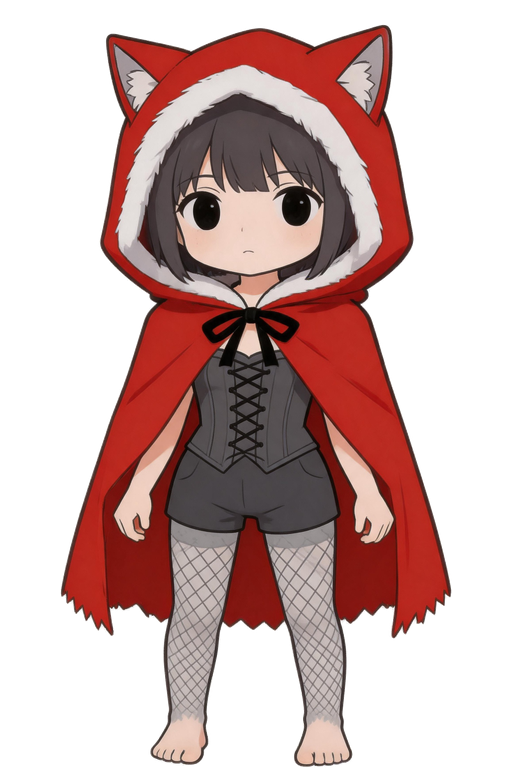
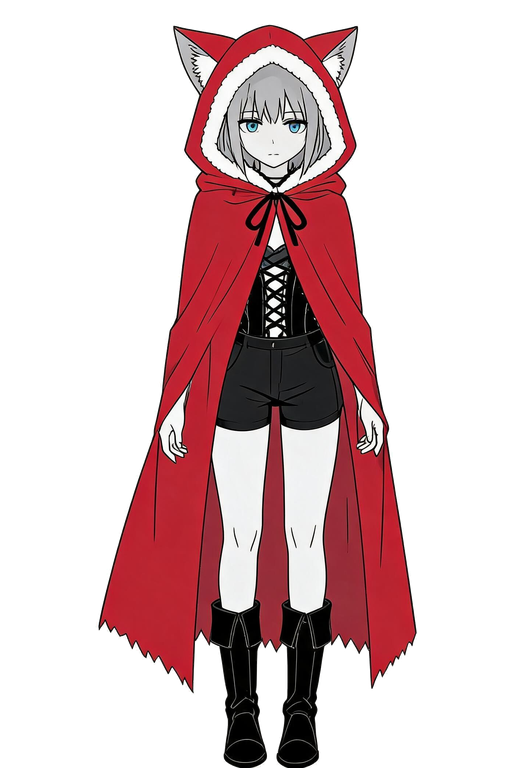
feat: 首张真立绘（蕾克）走通 seedream → prep_portrait → 色相检查 流程
- art/portrait/rek.png: 512x768 透明立绘，越界 0.20% PASS
- art/ref/sheet.png: 官方三面图作为出图参考

diff --git a/_verify_story.html b/_verify_story.html
@@ -114,7 +114,7 @@
     render(document.getElementById('c9').getContext('2d'));
   }
 
-  drawAll();
+  try { drawAll(); } catch (e) { document.title = 'ERR: ' + e.message; }
   // 立绘是异步加载的：加载完再重画一遍，否则截到的是占位块
   setTimeout(drawAll, 600);
   setTimeout(drawAll, 1200);
